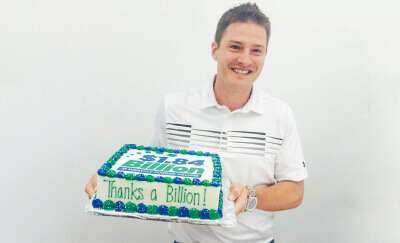
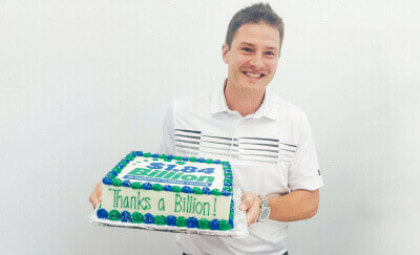
optimized imgs, footer styles

diff --git a/app/styles/modules/_footer.sass b/app/styles/modules/_footer.sass
@@ -111,7 +111,7 @@ footer
                 font-family: 'Gotham Bold'
         .license-images
             float: center
-            display: inline-block
+            display: block
             margin-top: 1rem
             // width: 15%
             .license-hud
@@ -120,8 +120,9 @@ footer
                 margin-bottom: 1rem
                 // padding-left: 2rem
             .license-bbb
-                // width: 35%
-                padding-left: 2rem
+                width: 100px
+                // margin: 0 3rem
+                // padding-left: 2rem
         .license-copy
             color: $white
             font-family: 'Gotham Book'
@@ -400,14 +401,13 @@ footer
             .license-images
                 float: left
                 display: inline-block
-                margin-top: 1rem
+                margin-top: 0
                 // width: 15%
                 .license-hud
                     width: 5.5rem
                     height: 5.5rem
                     padding-left: 2rem
                 .license-bbb
-                    // width: 35%
                     padding-left: 1rem
             .license-copy
                 color: $white

diff --git a/app/styles/modules/_carousel.sass b/app/styles/modules/_carousel.sass
@@ -74,8 +74,8 @@
 				font-size: 1.5rem
 				text-align: center
 			p
-				width: 100%
-				margin-left: 0
+				width: 70%
+				margin-left: 15%
 				font-size: 1.5rem
 				line-height: 2.5rem
 			
